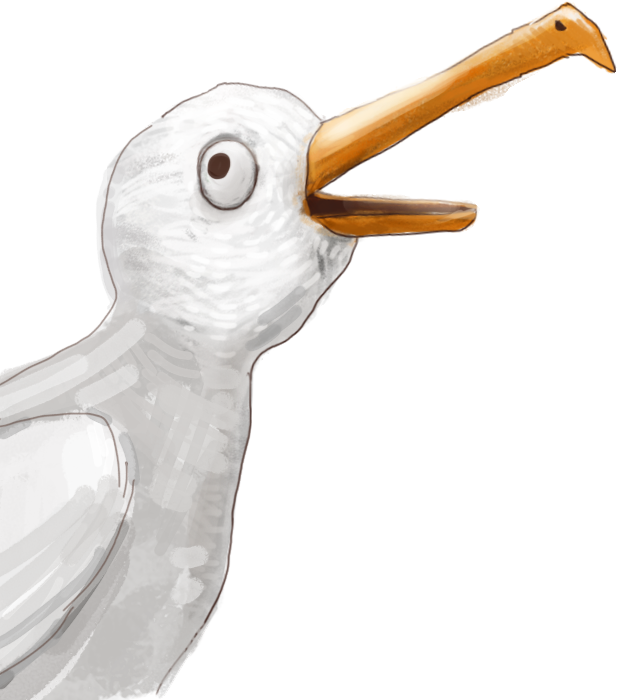
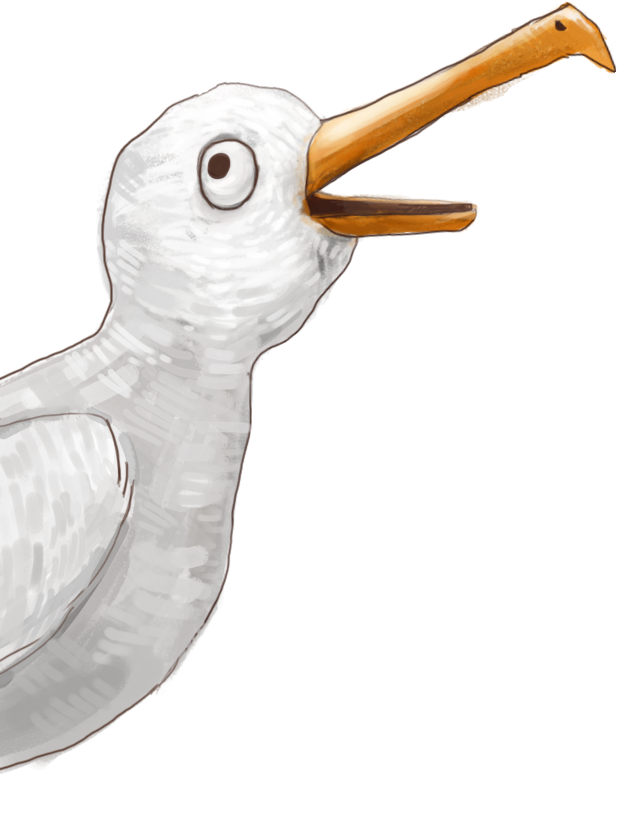
поправил параллакс, оработал на иллюстрацией, продолжаю верстать

Changed region(s): [[0.0, 0.0, 1.0, 1.0]]

diff --git a/index.html b/index.html
@@ -8,6 +8,7 @@
     <script src="js/jquery.js"></script>
   </head>
   <body>
+  <div class="down"></div>
   <div id="container" class="container">
   <ul id="scene" class="scene"
   data-calibrate-x="true"
@@ -16,15 +17,20 @@
   data-invert-y="true"
   data-limit-x="false"
   data-limit-y="false"
-  data-scalar-x="2"
+  data-scalar-x="10"
   data-scalar-y="8"
   data-friction-x="0.1"
   data-friction-y="0.2"
   data-origin-x="0.0"
   data-origin-y="1.0">
+  <li class="layer" id="lights" data-depth="0.40"><img src="images/lights.png"></li>
+  <li class="layer" id="logo" data-depth="0.60"><img src="images/logo.png"></li>
   <li class="layer" id="sailor" data-depth="0.20"><img src="images/sailor.png"></li>
-  <li class="layer" id="seagull1" data-depth="0.70"><img src="images/seagull1.png"></li>
-  <li class="layer" id="seagull2" data-depth="0.89"><img src="images/seagull2.png"></li>
+  <li class="layer" id="clouds" data-depth="0.40"><img src="images/clouds_bg.png"></li>
+  <li class="layer" id="land" data-depth="0.10"><img src="images/bg_land.png"></li>
+  <li class="layer" id="lighter" data-depth="0.40"><img src="images/lighter_bg.png"></li>
+  <li class="layer" id="seagull1" data-depth="1.00"><img src="images/seagull1.png"></li>
+  <li class="layer" id="seagull2" data-depth="1.00"><img src="images/seagull2.png"></li>
   </ul>
   </div>
   <script src="js/parallax.js"></script>

diff --git a/css/styles.css b/css/styles.css
@@ -8,9 +8,20 @@ body{
   overflow-x: hidden;
   overflow-y: scroll;
 }
+
 .scene {
   padding: 0;
   margin: 0;
+}
+
+.container{
+  
+}
+
+.down{
+  display: block;
+  position: fixed;
+  margin-top: 3270px;
 }
 
 img {
@@ -18,9 +29,64 @@ img {
   width: 100%;
 }
 
+#lights {
+  opacity: 0.4;
+  position: fixed;
+  margin-left:0%;
+  margin-top: -5%;
+  width:120%;
+  height:120%;
+  z-index: 100;
+  mix-blend-mode: overlay;
+
+}
+
+
+
+#logo{
+  position: fixed;
+  margin-top: 5%;
+  margin-left: 30%;
+  width:40%;
+  height:40%;
+  z-index: 25;
+}
+
+#lighter{
+  position: fixed;
+  margin-top: 40%;
+  margin-left: 80%;
+  width:5%;
+  height:5%;
+  z-index: 10;
+}
+
+
+#land{
+  position: fixed;
+  margin-top: 10%;
+  margin-left: 0%;
+  width:100%;
+  height:100%;
+  z-index: 5;
+}
+
+
 #sailor {
-  width:104%;
-  height:104%;
+  margin-left: -8%;
+  margin-top: 18%;
+  width:120%;
+  height:120%;
+  z-index: 20;
+}
+
+#clouds {
+  position: fixed;
+  margin-left: 0%;
+  margin-top: 0%;
+  width:100%;
+  height:100%;
+  z-index: 20;
 }
 
 #seagull1 {
@@ -29,11 +95,14 @@ img {
   margin-top: 44%;
   width:40%;
   height:40%;
+  z-index: 30;
 }
+
 #seagull2 {
   position: fixed;
-  margin-left: -2%;
+  margin-left: 0%;
   margin-top: 71%;
   width:30%;
   height:30%;
+  z-index: 30;
 }
